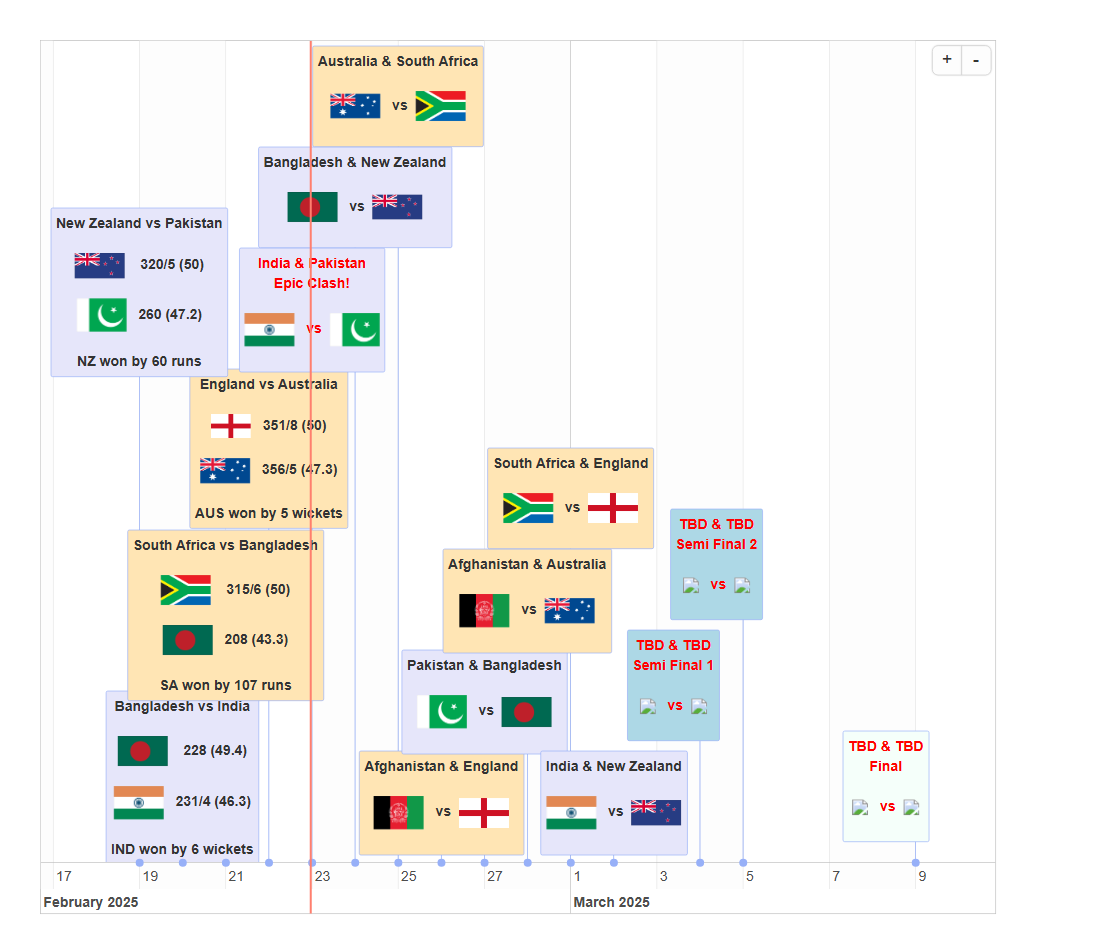
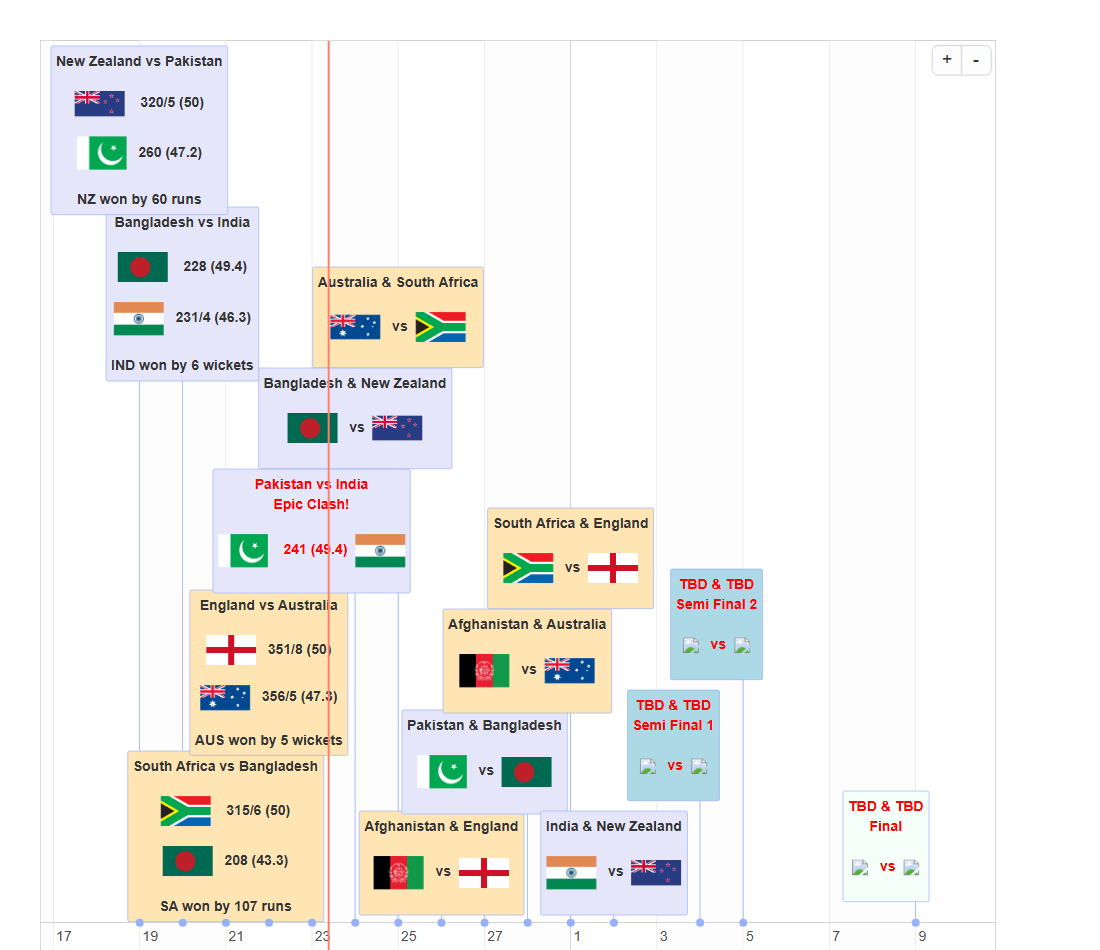
initial commit

Changed region(s): [[0.0309, 0.0305, 0.7109, 1.0], [0.7727, 0.7632, 0.8655, 0.9463], [0.7727, 0.9463, 0.8345, 0.9768]]

diff --git a/timeline.html b/timeline.html
@@ -1284,14 +1284,14 @@ pre:not([class]) { background-color: white }</style>
 </head>
 <body style="background-color: white;">
 <div id="htmlwidget_container">
-  <div id="htmlwidget-b387720857a1b2b01187" class="timevis html-widget" style="width:100%;height:500px;">
+  <div id="htmlwidget-223a0b1fa0f4cd770ef2" class="timevis html-widget" style="width:100%;height:500px;">
     <div class="btn-group zoom-menu">
       <button type="button" class="btn btn-default btn-lg zoom-in" title="Zoom in">+</button>
       <button type="button" class="btn btn-default btn-lg zoom-out" title="Zoom out">-</button>
     </div>
   </div>
 </div>
-<script type="application/json" data-for="htmlwidget-b387720857a1b2b01187">{"x":{"items":[{"id":"1","content":"New Zealand vs Pakistan<br><br>\n              <img src='https://www.worldometers.info/img/flags/nz-flag.gif' width='50'> &nbsp;&nbsp; 320/5 (50) <br><br>\n              <img src='https://www.worldometers.info/img/flags/pk-flag.gif' width='50'>&nbsp;&nbsp; 260 (47.2)<br><br> \nNZ won by 60 runs","start":"2025-02-19","style":"color: #333333;background:#E6E6FA;font-weight: bold;","group":"A","groups":"League Matches"},{"id":"2","content":"Bangladesh vs India<br><br>\n              <img src='https://www.worldometers.info/img/flags/bg-flag.gif' width='50'> &nbsp;&nbsp; 228 (49.4)<br><br>              \n<img src='https://www.worldometers.info/img/flags/in-flag.gif' width='50'>&nbsp;&nbsp;  231/4 (46.3) <br><br>\nIND won by 6 wickets","start":"2025-02-20","style":"color: #333333;background:#E6E6FA;font-weight: bold;","group":"A","groups":"League Matches"},{"id":"3","content":"South Africa vs Bangladesh<br><br>\n              <img src='https://www.worldometers.info/img/flags/sf-flag.gif' width='50'> &nbsp;&nbsp; 315/6 (50)<br><br>              \n<img src='https://www.worldometers.info/img/flags/bg-flag.gif' width='50'>&nbsp;&nbsp;  208 (43.3) <br><br>\nSA won by 107 runs","start":"2025-02-21","style":"color: #333333;background:#FFE5B4;font-weight: bold;","group":"B","groups":"League Matches"},{"id":"4","content":"England vs Australia<br><br>\n<img src='https://upload.wikimedia.org/wikipedia/en/b/be/Flag_of_England.svg' width='40'>&nbsp;&nbsp; 351/8 (50) <br><br>\n              <img src='https://www.worldometers.info/img/flags/as-flag.gif' width='50'> &nbsp;&nbsp;356/5 (47.3) <br><br>\n               AUS won by 5 wickets","start":"2025-02-22","style":"color: #333333;background:#FFE5B4;font-weight: bold;","group":"B","groups":"League Matches"},{"id":"5","content":"India & Pakistan<br>Epic Clash!<br><br>\n              <img src='https://www.worldometers.info/img/flags/in-flag.gif' width='50'> &nbsp;&nbsp;vs&nbsp;\n              <img src='https://www.worldometers.info/img/flags/pk-flag.gif' width='50'><br><br>","start":"2025-02-23","style":"color: red;background:#E6E6FA;font-weight: bold;","group":"A","groups":"League Matches"},{"id":"6","content":"Bangladesh & New Zealand<br><br>\n              <img src='https://www.worldometers.info/img/flags/bg-flag.gif' width='50'> &nbsp;&nbsp;vs&nbsp;\n              <img src='https://www.worldometers.info/img/flags/nz-flag.gif' width='50'><br><br>","start":"2025-02-24","style":"color: #333333;background:#E6E6FA;font-weight: bold;","group":"A","groups":"League Matches"},{"id":"7","content":"Australia & South Africa<br><br>\n              <img src='https://www.worldometers.info/img/flags/as-flag.gif' width='50'> &nbsp;&nbsp;vs&nbsp;\n              <img src='https://www.worldometers.info/img/flags/sf-flag.gif' width='50'><br><br>","start":"2025-02-25","style":"color: #333333;background:#FFE5B4;font-weight: bold;","group":"B","groups":"League Matches"},{"id":"8","content":"Afghanistan & England<br><br>\n              <img src='https://www.worldometers.info/img/flags/af-flag.gif' width='50'> &nbsp;&nbsp;vs&nbsp;\n              <img src='https://upload.wikimedia.org/wikipedia/en/b/be/Flag_of_England.svg' width='50'><br><br>","start":"2025-02-26","style":"color: #333333;background:#FFE5B4;font-weight: bold;","group":"B","groups":"League Matches"},{"id":"9","content":"Pakistan & Bangladesh<br><br>\n              <img src='https://www.worldometers.info/img/flags/pk-flag.gif' width='50'> &nbsp;&nbsp;vs&nbsp;\n              <img src='https://www.worldometers.info/img/flags/bg-flag.gif' width='50'><br><br>","start":"2025-02-27","style":"color: #333333;background:#E6E6FA;font-weight: bold;","group":"A","groups":"League Matches"},{"id":"10","content":"Afghanistan & Australia<br><br>\n              <img src='https://www.worldometers.info/img/flags/af-flag.gif' width='50'> &nbsp;&nbsp;vs&nbsp;\n              <img src='https://www.worldometers.info/img/flags/as-flag.gif' width='50'><br><br>","start":"2025-02-28","style":"color: #333333;background:#FFE5B4;font-weight: bold;","group":"B","groups":"League Matches"},{"id":"11","content":"South Africa & England<br><br>\n              <img src='https://www.worldometers.info/img/flags/sf-flag.gif' width='50'> &nbsp;&nbsp;vs&nbsp;\n              <img src='https://upload.wikimedia.org/wikipedia/en/b/be/Flag_of_England.svg' width='50'><br><br>","start":"2025-03-01","style":"color: #333333;background:#FFE5B4;font-weight: bold;","group":"B","groups":"League Matches"},{"id":"12","content":"India & New Zealand<br><br>\n              <img src='https://www.worldometers.info/img/flags/in-flag.gif' width='50'> &nbsp;&nbsp;vs&nbsp;\n              <img src='https://www.worldometers.info/img/flags/nz-flag.gif' width='50'><br><br>","start":"2025-03-02","style":"color: #333333;background:#E6E6FA;font-weight: bold;","group":"A","groups":"League Matches"},{"id":"13","content":"TBD & TBD<br>Semi Final 1<br><br>\n              <img src='https://www.worldometers.info/img/flags/tbd-flag.gif' width='50'> &nbsp;&nbsp;vs&nbsp;\n              <img src='https://www.worldometers.info/img/flags/tbd-flag.gif' width='50'><br><br>","start":"2025-03-04","style":"color: red;background:#ADD8E6;font-weight: bold;","group":"Semi","groups":"Semi"},{"id":"14","content":"TBD & TBD<br>Semi Final 2<br><br>\n              <img src='https://www.worldometers.info/img/flags/tbd-flag.gif' width='50'> &nbsp;&nbsp;vs&nbsp;\n              <img src='https://www.worldometers.info/img/flags/tbd-flag.gif' width='50'><br><br>","start":"2025-03-05","style":"color: red;background:#ADD8E6;font-weight: bold;","group":"Semi","groups":"Semi"},{"id":"15","content":"TBD & TBD<br>Final<br><br>\n              <img src='https://www.worldometers.info/img/flags/tbd-flag.gif' width='50'> &nbsp;&nbsp;vs&nbsp;\n              <img src='https://www.worldometers.info/img/flags/tbd-flag.gif' width='50'><br><br>","start":"2025-03-09","style":"color: red;background:#F5FFFA;font-weight: bold;","group":"final","groups":"final"}],"groups":null,"showZoom":true,"zoomFactor":0.5,"fit":true,"options":{"format":"{ minorLabels: { minute: 'h:mma', hour: 'ha' }}"},"height":null,"timezone":null,"api":[]},"evals":["options.format"],"jsHooks":[]}</script>
-<script type="application/htmlwidget-sizing" data-for="htmlwidget-b387720857a1b2b01187">{"viewer":{"width":"100%","height":350,"padding":15,"fill":false},"browser":{"width":"100%","height":500,"padding":40,"fill":false}}</script>
+<script type="application/json" data-for="htmlwidget-223a0b1fa0f4cd770ef2">{"x":{"items":[{"id":"1","content":"New Zealand vs Pakistan<br><br>\n              <img src='https://www.worldometers.info/img/flags/nz-flag.gif' width='50'> &nbsp;&nbsp; 320/5 (50) <br><br>\n              <img src='https://www.worldometers.info/img/flags/pk-flag.gif' width='50'>&nbsp;&nbsp; 260 (47.2)<br><br> \nNZ won by 60 runs","start":"2025-02-19","style":"color: #333333;background:#E6E6FA;font-weight: bold;","group":"A","groups":"League Matches"},{"id":"2","content":"Bangladesh vs India<br><br>\n              <img src='https://www.worldometers.info/img/flags/bg-flag.gif' width='50'> &nbsp;&nbsp; 228 (49.4)<br><br>              \n<img src='https://www.worldometers.info/img/flags/in-flag.gif' width='50'>&nbsp;&nbsp;  231/4 (46.3) <br><br>\nIND won by 6 wickets","start":"2025-02-20","style":"color: #333333;background:#E6E6FA;font-weight: bold;","group":"A","groups":"League Matches"},{"id":"3","content":"South Africa vs Bangladesh<br><br>\n              <img src='https://www.worldometers.info/img/flags/sf-flag.gif' width='50'> &nbsp;&nbsp; 315/6 (50)<br><br>              \n<img src='https://www.worldometers.info/img/flags/bg-flag.gif' width='50'>&nbsp;&nbsp;  208 (43.3) <br><br>\nSA won by 107 runs","start":"2025-02-21","style":"color: #333333;background:#FFE5B4;font-weight: bold;","group":"B","groups":"League Matches"},{"id":"4","content":"England vs Australia<br><br>\n<img src='https://upload.wikimedia.org/wikipedia/en/b/be/Flag_of_England.svg' width='50'>&nbsp;&nbsp; 351/8 (50) <br><br>\n              <img src='https://www.worldometers.info/img/flags/as-flag.gif' width='50'> &nbsp;&nbsp;356/5 (47.3) <br><br>\n               AUS won by 5 wickets","start":"2025-02-22","style":"color: #333333;background:#FFE5B4;font-weight: bold;","group":"B","groups":"League Matches"},{"id":"5","content":"Pakistan vs India<br>Epic Clash!<br><br>\n              <img src='https://www.worldometers.info/img/flags/pk-flag.gif' width='50'> &nbsp;&nbsp; 241 (49.4)&nbsp;\n              <img src='https://www.worldometers.info/img/flags/in-flag.gif' width='50'><br><br>","start":"2025-02-23","style":"color: red;background:#E6E6FA;font-weight: bold;","group":"A","groups":"League Matches"},{"id":"6","content":"Bangladesh & New Zealand<br><br>\n              <img src='https://www.worldometers.info/img/flags/bg-flag.gif' width='50'> &nbsp;&nbsp;vs&nbsp;\n              <img src='https://www.worldometers.info/img/flags/nz-flag.gif' width='50'><br><br>","start":"2025-02-24","style":"color: #333333;background:#E6E6FA;font-weight: bold;","group":"A","groups":"League Matches"},{"id":"7","content":"Australia & South Africa<br><br>\n              <img src='https://www.worldometers.info/img/flags/as-flag.gif' width='50'> &nbsp;&nbsp;vs&nbsp;\n              <img src='https://www.worldometers.info/img/flags/sf-flag.gif' width='50'><br><br>","start":"2025-02-25","style":"color: #333333;background:#FFE5B4;font-weight: bold;","group":"B","groups":"League Matches"},{"id":"8","content":"Afghanistan & England<br><br>\n              <img src='https://www.worldometers.info/img/flags/af-flag.gif' width='50'> &nbsp;&nbsp;vs&nbsp;\n              <img src='https://upload.wikimedia.org/wikipedia/en/b/be/Flag_of_England.svg' width='50'><br><br>","start":"2025-02-26","style":"color: #333333;background:#FFE5B4;font-weight: bold;","group":"B","groups":"League Matches"},{"id":"9","content":"Pakistan & Bangladesh<br><br>\n              <img src='https://www.worldometers.info/img/flags/pk-flag.gif' width='50'> &nbsp;&nbsp;vs&nbsp;\n              <img src='https://www.worldometers.info/img/flags/bg-flag.gif' width='50'><br><br>","start":"2025-02-27","style":"color: #333333;background:#E6E6FA;font-weight: bold;","group":"A","groups":"League Matches"},{"id":"10","content":"Afghanistan & Australia<br><br>\n              <img src='https://www.worldometers.info/img/flags/af-flag.gif' width='50'> &nbsp;&nbsp;vs&nbsp;\n              <img src='https://www.worldometers.info/img/flags/as-flag.gif' width='50'><br><br>","start":"2025-02-28","style":"color: #333333;background:#FFE5B4;font-weight: bold;","group":"B","groups":"League Matches"},{"id":"11","content":"South Africa & England<br><br>\n              <img src='https://www.worldometers.info/img/flags/sf-flag.gif' width='50'> &nbsp;&nbsp;vs&nbsp;\n              <img src='https://upload.wikimedia.org/wikipedia/en/b/be/Flag_of_England.svg' width='50'><br><br>","start":"2025-03-01","style":"color: #333333;background:#FFE5B4;font-weight: bold;","group":"B","groups":"League Matches"},{"id":"12","content":"India & New Zealand<br><br>\n              <img src='https://www.worldometers.info/img/flags/in-flag.gif' width='50'> &nbsp;&nbsp;vs&nbsp;\n              <img src='https://www.worldometers.info/img/flags/nz-flag.gif' width='50'><br><br>","start":"2025-03-02","style":"color: #333333;background:#E6E6FA;font-weight: bold;","group":"A","groups":"League Matches"},{"id":"13","content":"TBD & TBD<br>Semi Final 1<br><br>\n              <img src='https://www.worldometers.info/img/flags/tbd-flag.gif' width='50'> &nbsp;&nbsp;vs&nbsp;\n              <img src='https://www.worldometers.info/img/flags/tbd-flag.gif' width='50'><br><br>","start":"2025-03-04","style":"color: red;background:#ADD8E6;font-weight: bold;","group":"Semi","groups":"Semi"},{"id":"14","content":"TBD & TBD<br>Semi Final 2<br><br>\n              <img src='https://www.worldometers.info/img/flags/tbd-flag.gif' width='50'> &nbsp;&nbsp;vs&nbsp;\n              <img src='https://www.worldometers.info/img/flags/tbd-flag.gif' width='50'><br><br>","start":"2025-03-05","style":"color: red;background:#ADD8E6;font-weight: bold;","group":"Semi","groups":"Semi"},{"id":"15","content":"TBD & TBD<br>Final<br><br>\n              <img src='https://www.worldometers.info/img/flags/tbd-flag.gif' width='50'> &nbsp;&nbsp;vs&nbsp;\n              <img src='https://www.worldometers.info/img/flags/tbd-flag.gif' width='50'><br><br>","start":"2025-03-09","style":"color: red;background:#F5FFFA;font-weight: bold;","group":"final","groups":"final"}],"groups":null,"showZoom":true,"zoomFactor":0.5,"fit":true,"options":{"format":"{ minorLabels: { minute: 'h:mma', hour: 'ha' }}"},"height":null,"timezone":null,"api":[]},"evals":["options.format"],"jsHooks":[]}</script>
+<script type="application/htmlwidget-sizing" data-for="htmlwidget-223a0b1fa0f4cd770ef2">{"viewer":{"width":"100%","height":350,"padding":15,"fill":false},"browser":{"width":"100%","height":500,"padding":40,"fill":false}}</script>
 </body>
 </html>
